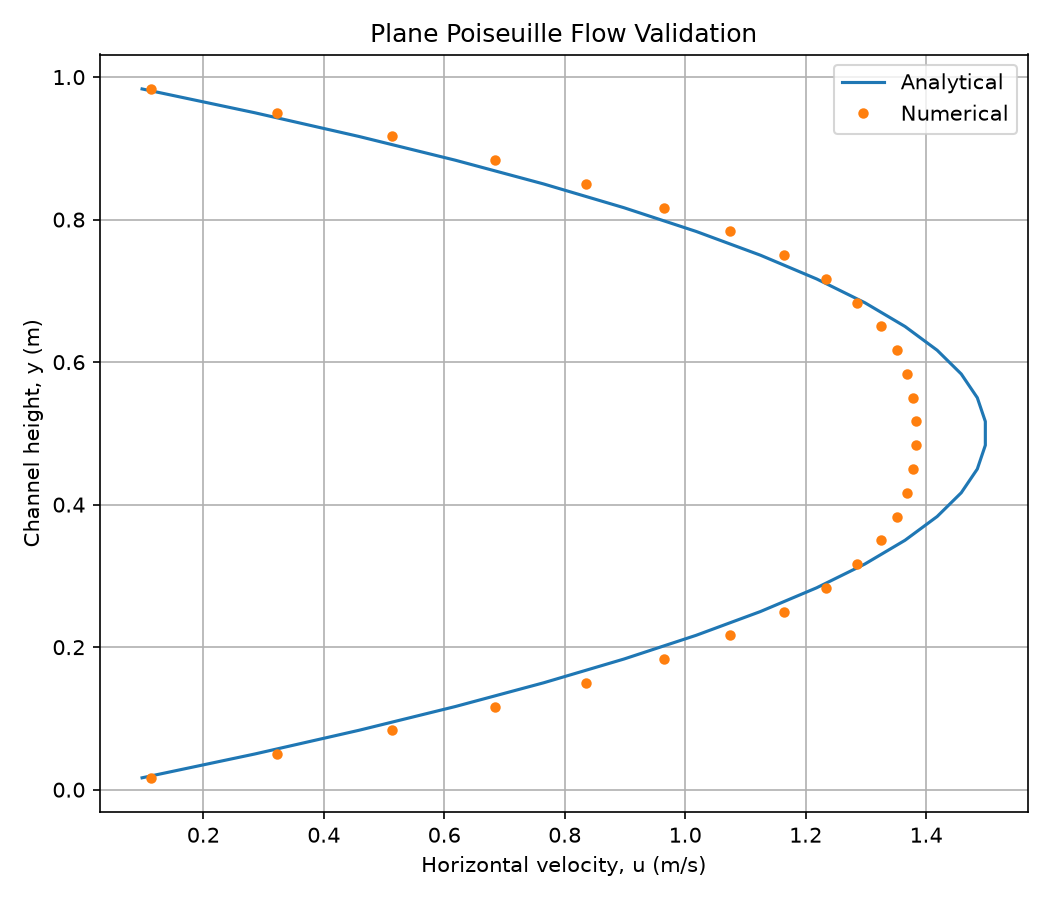
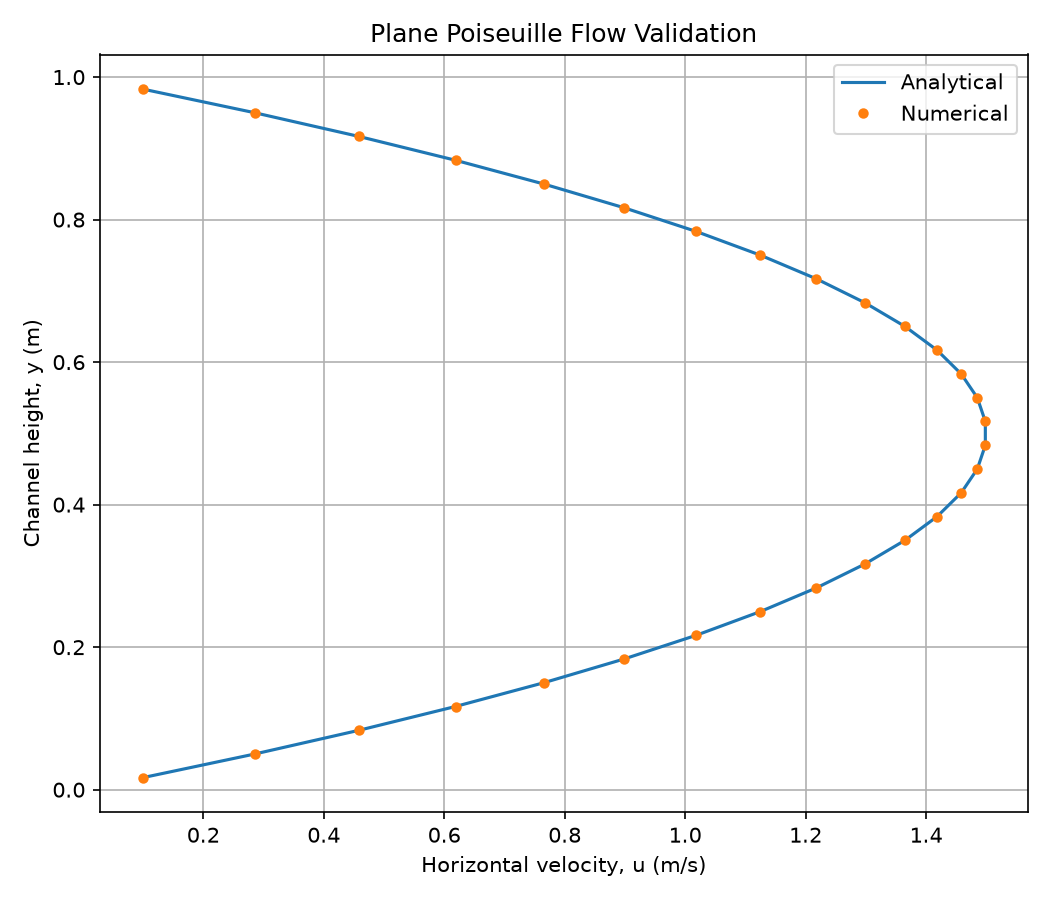
updated fluid sim

diff --git a/main.py b/main.py
@@ -10,6 +10,7 @@ from visualization import (
     measure_flow_rates,
     capture_flow_state,
     animate_flow,
+    reconstuct_cell_centred_velocities
 )
 from boundary_conditions import apply_boundary_conditions
 from solver import (
@@ -23,7 +24,9 @@ from diffusion import (
     diffusion_timestep_limit,
 )
 from validation import validate_poiseuille
+from data import write_to_output
 
+data = []
 def main():
     # --------------------------------------------
     # 1. Create the simulation domain
@@ -58,13 +61,32 @@ def main():
     grid.u[:] = inlet_velocity
     grid.v[:] = 0.0
 
+    y_u = (
+        np.arange(grid.ny) + 0.5
+    ) * grid.dy
+
+    eta = y_u / grid.height
+
+    profile = (
+        6.0
+        * inlet_velocity
+        * eta
+        * (1.0 - eta)
+    )
+
+    for i in range(grid.nx + 1):
+        grid.u[:, i] = profile
+
+    grid.v[:, :] = 0.0
+
     apply_boundary_conditions(grid, inlet_velocity)
 
     # --------------------------------------------
     # 2. Advance the velocity field
     # --------------------------------------------
 
-    for step in tqdm(range(steps)):
+    rms_on_steps = {}
+    for step in tqdm(range(steps), desc="Simulation Progress"):
 
     # ---------------------------------------------------------
     # 1. Apply boundary conditions
@@ -131,12 +153,11 @@ def main():
         # ---------------------------------------------------------
 
         if (step + 1) % 100 == 0:
+            rms_on_steps[f"Step {step + 1}/{steps}"] = f"{rms_before:.3e} -> {rms_after:.3e}"
 
-            print(
-                f"Step {step + 1}/{steps}: "
-                f"RMS divergence "
-                f"{rms_before:.3e} -> {rms_after:.3e}"
-            )
+    data.append("RMS Divergence")
+    for rms_step in rms_on_steps.keys():
+        data.append(f"{rms_step}: RMS divergence {rms_on_steps[rms_step]}")
 
     animate_flow(
         grid,
@@ -151,12 +172,12 @@ def main():
 
     diffusion_dt_limit = diffusion_timestep_limit(grid,nu)
 
-    print(
+    data.append(
         f"Diffusion dt limit:   "
         f"{diffusion_dt_limit:.6e} s"
     )
 
-    print(
+    data.append(
         f"Current dt:            "
         f"{dt:.6e} s"
     )
@@ -170,12 +191,12 @@ def main():
 
     fluid_speed = speed[~grid.solid]
 
-    print(
+    data.append(
         f"Maximum fluid speed: "
         f"{np.nanmax(fluid_speed):.6f} m/s"
     )
 
-    print(
+    data.append(
         f"Mean fluid speed: "
         f"{np.nanmean(fluid_speed):.6f} m/s"
     )
@@ -189,25 +210,25 @@ def main():
         / mu
     )
 
-    print(f"Density:              {rho:.6g} kg/m^3")
-    print(f"Dynamic viscosity:    {mu:.6g} Pa.s")
-    print(f"Kinematic viscosity:  {nu:.6g} m^2/s")
-    print(f"Reynolds number:       {reynolds_number:.2f}")
+    data.append(f"Density:              {rho:.6g} kg/m^3")
+    data.append(f"Dynamic viscosity:    {mu:.6g} Pa.s")
+    data.append(f"Kinematic viscosity:  {nu:.6g} m^2/s")
+    data.append(f"Reynolds number:       {reynolds_number:.2f}")
 
     diffusion_number_x = nu * dt / grid.dx**2
     diffusion_number_y = nu * dt / grid.dy**2
 
-    print(
+    data.append(
         f"Diffusion number x:   "
         f"{diffusion_number_x:.4f}"
     )
 
-    print(
+    data.append(
         f"Diffusion number y:   "
         f"{diffusion_number_y:.4f}"
     )
 
-    print(
+    data.append(
         f"Combined diffusion #: "
         f"{diffusion_number_x + diffusion_number_y:.4f}"
     )
@@ -216,92 +237,19 @@ def main():
         mean_velocity=1.0,
         x_location=1.5
     )
-    print("Errors: ", errors)
+    data.append("=======Errors=======")
+    for error in errors.keys():
+        data.append(error, ": ",errors[error])
+
+    write_to_output(data)
 
 
     # --------------------------------------------
     # 3. Reconstruct cell-centred velocities
     #    for visualisation only
     # --------------------------------------------
-
-    u_center = 0.5 * (
-        grid.u[:, :-1] + grid.u[:, 1:]
-    )
-
-    v_center = 0.5 * (
-        grid.v[:-1, :] + grid.v[1:, :]
-    )
-
-    speed = np.sqrt(
-        u_center**2 + v_center**2
-    )
-
-    X, Y = grid.cell_centres()
-
-    # Mask solid cells in the visualisation.
-    speed_plot = np.ma.array(
-        speed,
-        mask=grid.solid,
-    )
-
-    # --------------------------------------------
-    # 4. Plot velocity magnitude and vectors
-    # --------------------------------------------
-
-    fig, ax = plt.subplots(figsize=(12, 5))
-
-    contour = ax.pcolormesh(
-        X,
-        Y,
-        speed_plot,
-        shading="nearest",
-        cmap="viridis",
-    )
-
-    fig.colorbar(
-        contour,
-        ax=ax,
-        label="Velocity magnitude (m/s)",
-    )
-
-    # Display the solid obstruction.
-    ax.contourf(
-        X,
-        Y,
-        grid.solid.astype(float),
-        levels=[0.5, 1.5],
-        colors=["dimgray"],
-    )
-
-    # Plot a subset of velocity vectors.
-    stride = 3
-
-    ax.quiver(
-        X[::stride, ::stride],
-        Y[::stride, ::stride],
-        np.ma.array(
-            u_center[::stride, ::stride],
-            mask=grid.solid[::stride, ::stride],
-        ),
-        np.ma.array(
-            v_center[::stride, ::stride],
-            mask=grid.solid[::stride, ::stride],
-        ),
-        color="white",
-        scale=20,
-    )
-
-    ax.set_title(
-        "2D MAC Grid: Semi-Lagrangian Advection"
-    )
-    ax.set_xlabel("x (m)")
-    ax.set_ylabel("y (m)")
-    ax.set_xlim(0, grid.width)
-    ax.set_ylim(0, grid.height)
-    ax.set_aspect("equal")
-
-    plt.tight_layout()
-    plt.show()
+    reconstuct_cell_centred_velocities(grid)
+    
 
 
 if __name__ == "__main__":

diff --git a/visualization.py b/visualization.py
@@ -1,7 +1,7 @@
-
 import numpy as np
 import matplotlib.pyplot as plt
 from matplotlib.animation import FuncAnimation, PillowWriter
+
 
 def animate_flow(
     grid,
@@ -375,3 +375,83 @@ def capture_flow_state(grid, time):
         "speed": speed.copy(),
         "pressure": grid.p.copy(),
     }
+
+def reconstuct_cell_centred_velocities(grid):
+    u_center = 0.5 * (
+        grid.u[:, :-1] + grid.u[:, 1:]
+    )
+
+    v_center = 0.5 * (
+        grid.v[:-1, :] + grid.v[1:, :]
+    )
+
+    speed = np.sqrt(
+        u_center**2 + v_center**2
+    )
+
+    X, Y = grid.cell_centres()
+
+    # Mask solid cells in the visualisation.
+    speed_plot = np.ma.array(
+        speed,
+        mask=grid.solid,
+    )
+
+    # --------------------------------------------
+    # 4. Plot velocity magnitude and vectors
+    # --------------------------------------------
+
+    fig, ax = plt.subplots(figsize=(12, 5))
+
+    contour = ax.pcolormesh(
+        X,
+        Y,
+        speed_plot,
+        shading="nearest",
+        cmap="viridis",
+    )
+
+    fig.colorbar(
+        contour,
+        ax=ax,
+        label="Velocity magnitude (m/s)",
+    )
+
+    # Display the solid obstruction.
+    ax.contourf(
+        X,
+        Y,
+        grid.solid.astype(float),
+        levels=[0.5, 1.5],
+        colors=["dimgray"],
+    )
+
+    # Plot a subset of velocity vectors.
+    stride = 3
+
+    ax.quiver(
+        X[::stride, ::stride],
+        Y[::stride, ::stride],
+        np.ma.array(
+            u_center[::stride, ::stride],
+            mask=grid.solid[::stride, ::stride],
+        ),
+        np.ma.array(
+            v_center[::stride, ::stride],
+            mask=grid.solid[::stride, ::stride],
+        ),
+        color="white",
+        scale=20,
+    )
+
+    ax.set_title(
+        "2D MAC Grid: Semi-Lagrangian Advection"
+    )
+    ax.set_xlabel("x (m)")
+    ax.set_ylabel("y (m)")
+    ax.set_xlim(0, grid.width)
+    ax.set_ylim(0, grid.height)
+    ax.set_aspect("equal")
+
+    plt.tight_layout()
+    plt.show()

diff --git a/boundary_conditions.py b/boundary_conditions.py
@@ -1,12 +1,32 @@
 
 import numpy as np
 
+def apply_poiseuille_inlet(grid, mean_velocity):
+    """
+    Apply a fully developed parabolic velocity profile
+    at the left inlet.
+    """
+
+    y = (np.arange(grid.ny) + 0.5) * grid.dy
+    eta = y / grid.height
+
+    inlet_profile = (
+        6.0
+        * mean_velocity
+        * eta
+        * (1.0 - eta)
+    )
+
+    grid.u[:, 0] = inlet_profile
 
 def apply_boundary_conditions(grid, inlet_velocity=1.0):
     """Apply channel, inlet, outlet, and solid-cell conditions."""
 
     # Inlet: prescribe horizontal velocity.
-    grid.u[:, 0] = inlet_velocity
+    apply_poiseuille_inlet(
+        grid,
+        mean_velocity=1.0
+    )
 
     # Outlet: approximate zero horizontal velocity gradient.
     grid.u[:, -1] = grid.u[:, -2]
@@ -46,3 +66,5 @@ def apply_boundary_conditions(grid, inlet_velocity=1.0):
     # Ensure solid cells do not retain pressure values
     # from previous iterations.
     grid.p[grid.solid] = 0.0
+
+

diff --git a/data.py b/data.py
@@ -1,0 +1,9 @@
+from pathlib import Path
+
+def write_to_output(data:list):
+    file_path = Path("results/output.txt")
+    file_path.unlink(missing_ok=True)
+    
+    with open("results/output.txt", "a") as file:
+        file.writelines(data)
+
